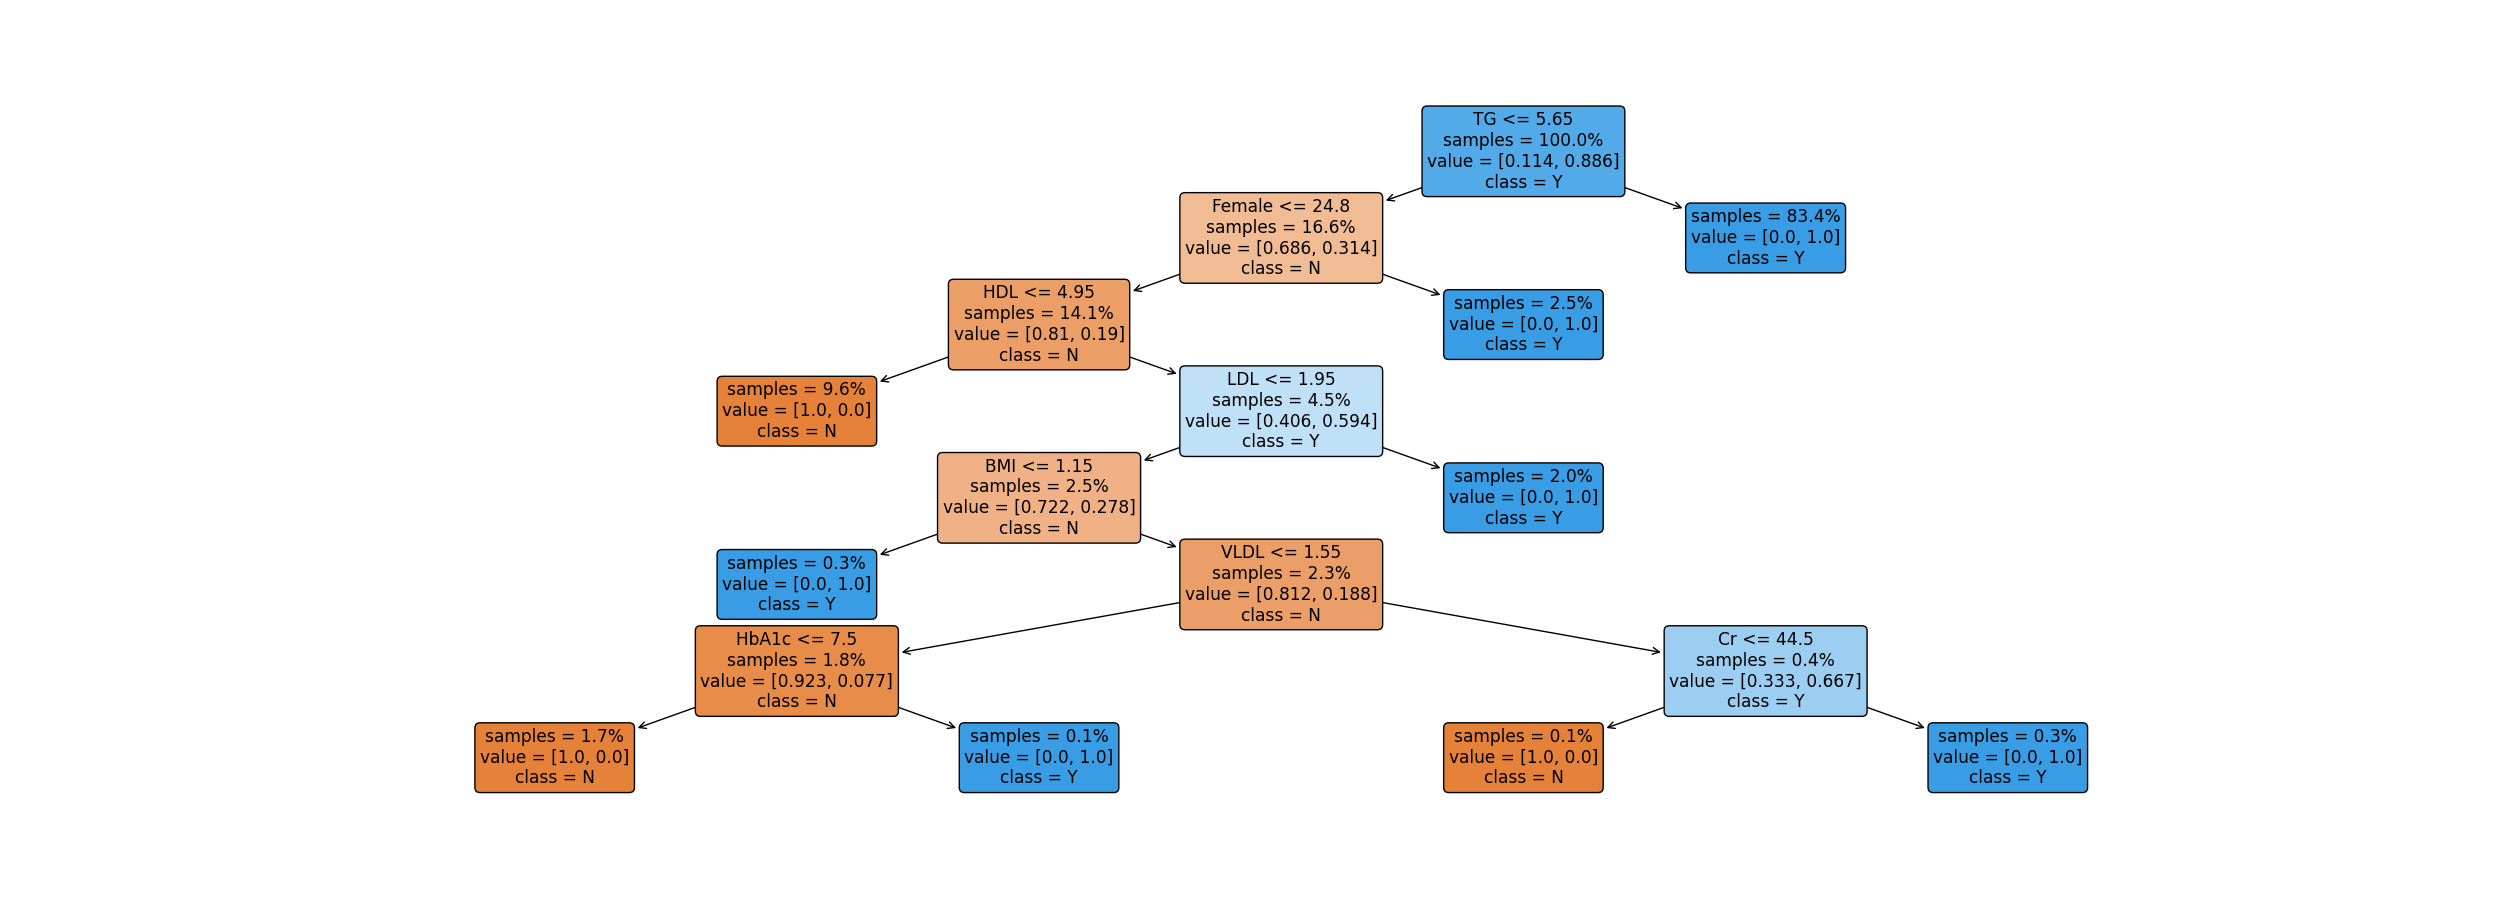
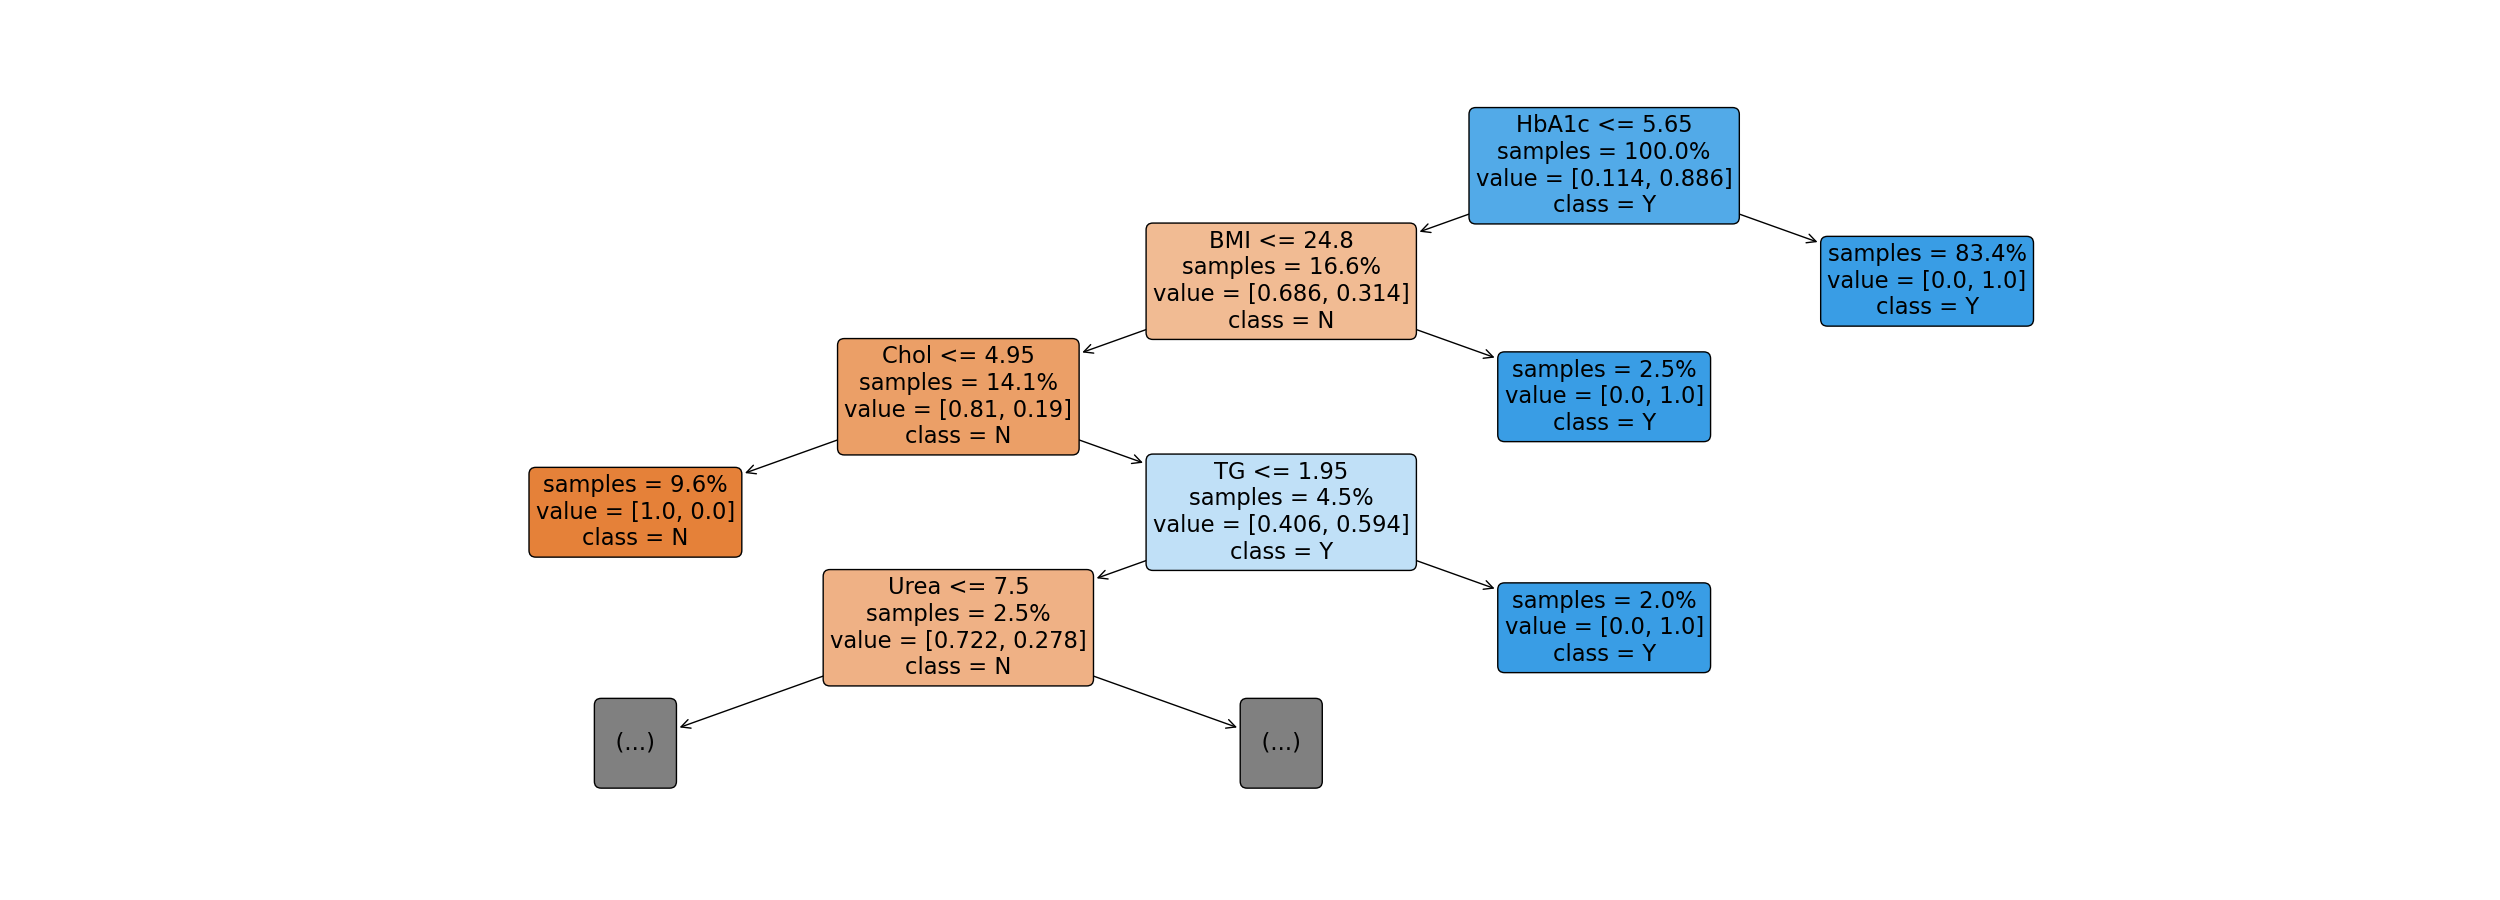
Fixed some errors

Changed region(s): [[0.1872, 0.0933, 0.8424, 0.9022]]

diff --git a/Models/Decision_Tree.py b/Models/Decision_Tree.py
@@ -14,8 +14,11 @@ cleanup_nums = {"Gender":{"M": 1, "F": 0}, "CLASS":{"Y":1, "N":0 }}
 diabetes = diabetes.replace(cleanup_nums)
 
 #Split the features from the classification
-X = diabetes.iloc[:,1:13]
+X = diabetes.iloc[:,2:13]
 y = diabetes.iloc[:,-1]
+print(diabetes)
+print(X)
+print(y)
 
 #Randomly split the data into training and testing sets with proportion 75%:25%
 X_train, X_test, y_train, y_test = train_test_split(
@@ -28,12 +31,13 @@ tree.fit(X_train,y_train)
 #Visualisation of model
 fig = plt.figure(figsize=(25,9))
 _ = plot_tree(tree, 
-                   feature_names=['AGE','Urea','Cr','HbA1c','Chol','TG','HDL','LDL','VLDL','BMI','Male','Female'],  
+                   feature_names=['Gender','AGE','Urea','Cr','HbA1c','Chol','TG','HDL','LDL','VLDL','BMI'],  
                    class_names=['N','Y'],
                    filled=True,
                    impurity=False,
                    rounded=True,
-                   proportion=True)
+                   proportion=True,
+                   max_depth=4)
 
 fig.savefig("decision_tree(1).png")
 
